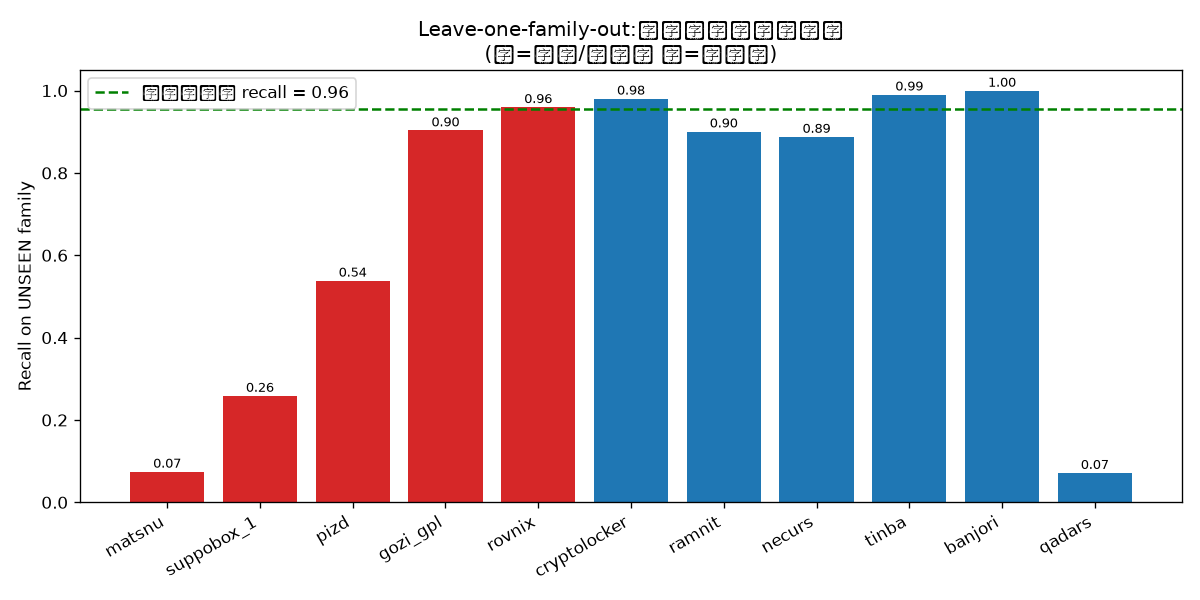
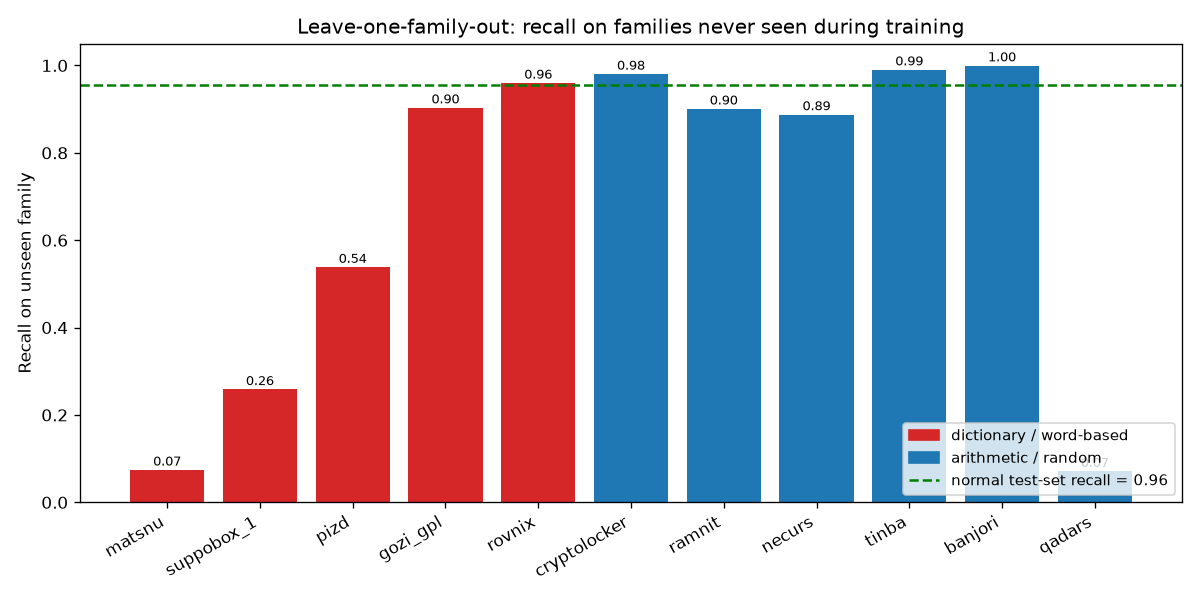
fix: regenerate LOO chart with English labels (was rendering CJK as tofu)

diff --git a/src/leave_one_out.py b/src/leave_one_out.py
@@ -84,20 +84,27 @@ def main():
                        "dict_families": DICT_FAMILIES}, f, ensure_ascii=False, indent=2)
 
     # Bar chart
+    from matplotlib.patches import Patch
+    from matplotlib.lines import Line2D
     fams = list(results.keys())
     vals = [results[f] for f in fams]
     colors = ["#d62728" if f in DICT_FAMILIES else "#1f77b4" for f in fams]
     plt.figure(figsize=(10, 5))
     bars = plt.bar(fams, vals, color=colors)
     if ref is not None:
-        plt.axhline(ref, color="green", linestyle="--",
-                    label=f"normal test-set recall = {ref:.2f}")
+        plt.axhline(ref, color="green", linestyle="--")
     for b, v in zip(bars, vals):
         plt.text(b.get_x() + b.get_width() / 2, v + 0.01, f"{v:.2f}",
                  ha="center", fontsize=8)
-    plt.ylabel("Recall on UNSEEN family"); plt.ylim(0, 1.05)
-    plt.title("Leave-one-family-out: recall on unseen families\n(red = dictionary/word-based, blue = arithmetic)")
-    plt.legend(); plt.xticks(rotation=30, ha="right"); plt.tight_layout()
+    handles = [Patch(color="#d62728", label="dictionary / word-based"),
+               Patch(color="#1f77b4", label="arithmetic / random")]
+    if ref is not None:
+        handles.append(Line2D([0], [0], color="green", ls="--",
+                              label=f"normal test-set recall = {ref:.2f}"))
+    plt.ylabel("Recall on unseen family"); plt.ylim(0, 1.05)
+    plt.title("Leave-one-family-out: recall on families never seen during training")
+    plt.legend(handles=handles, loc="lower right", fontsize=9)
+    plt.xticks(rotation=30, ha="right"); plt.tight_layout()
     plt.savefig(os.path.join(args.outdir, "loo_recall.png"), dpi=120); plt.close()
 
     dict_avg = np.mean([results[f] for f in DICT_FAMILIES if f in results])